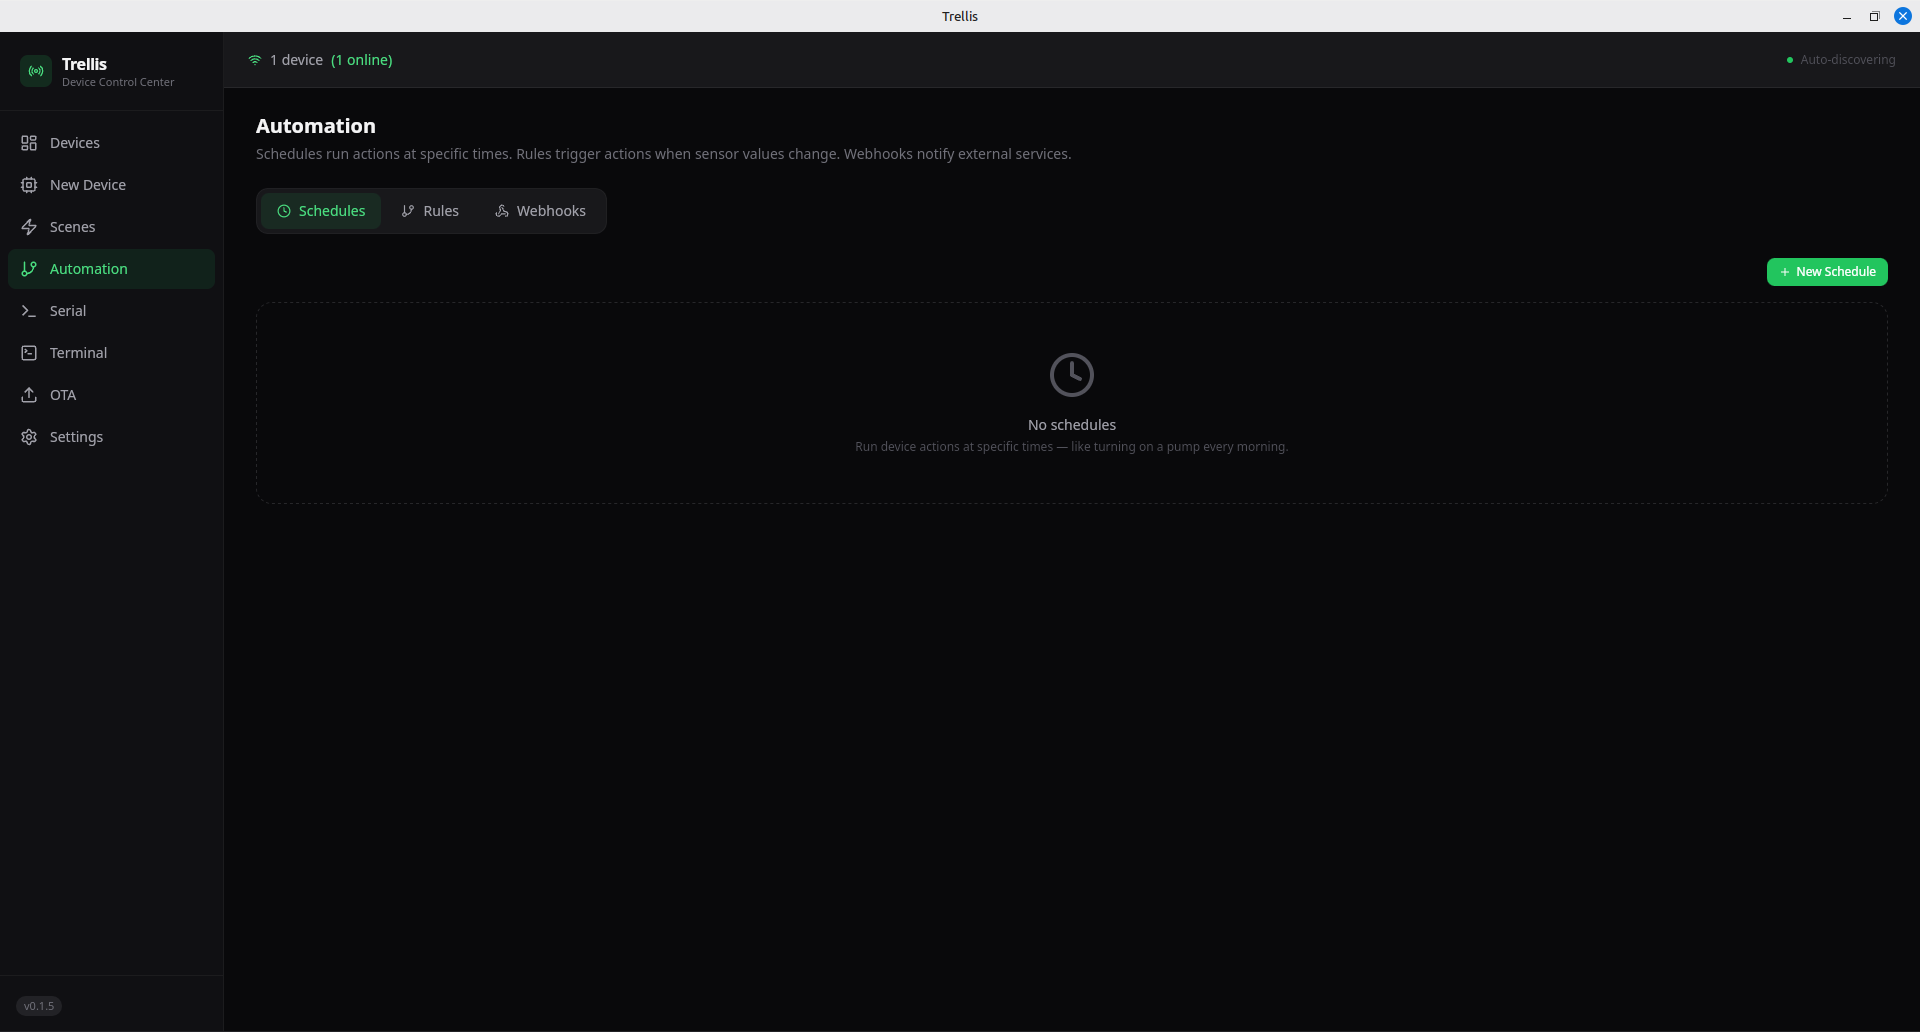
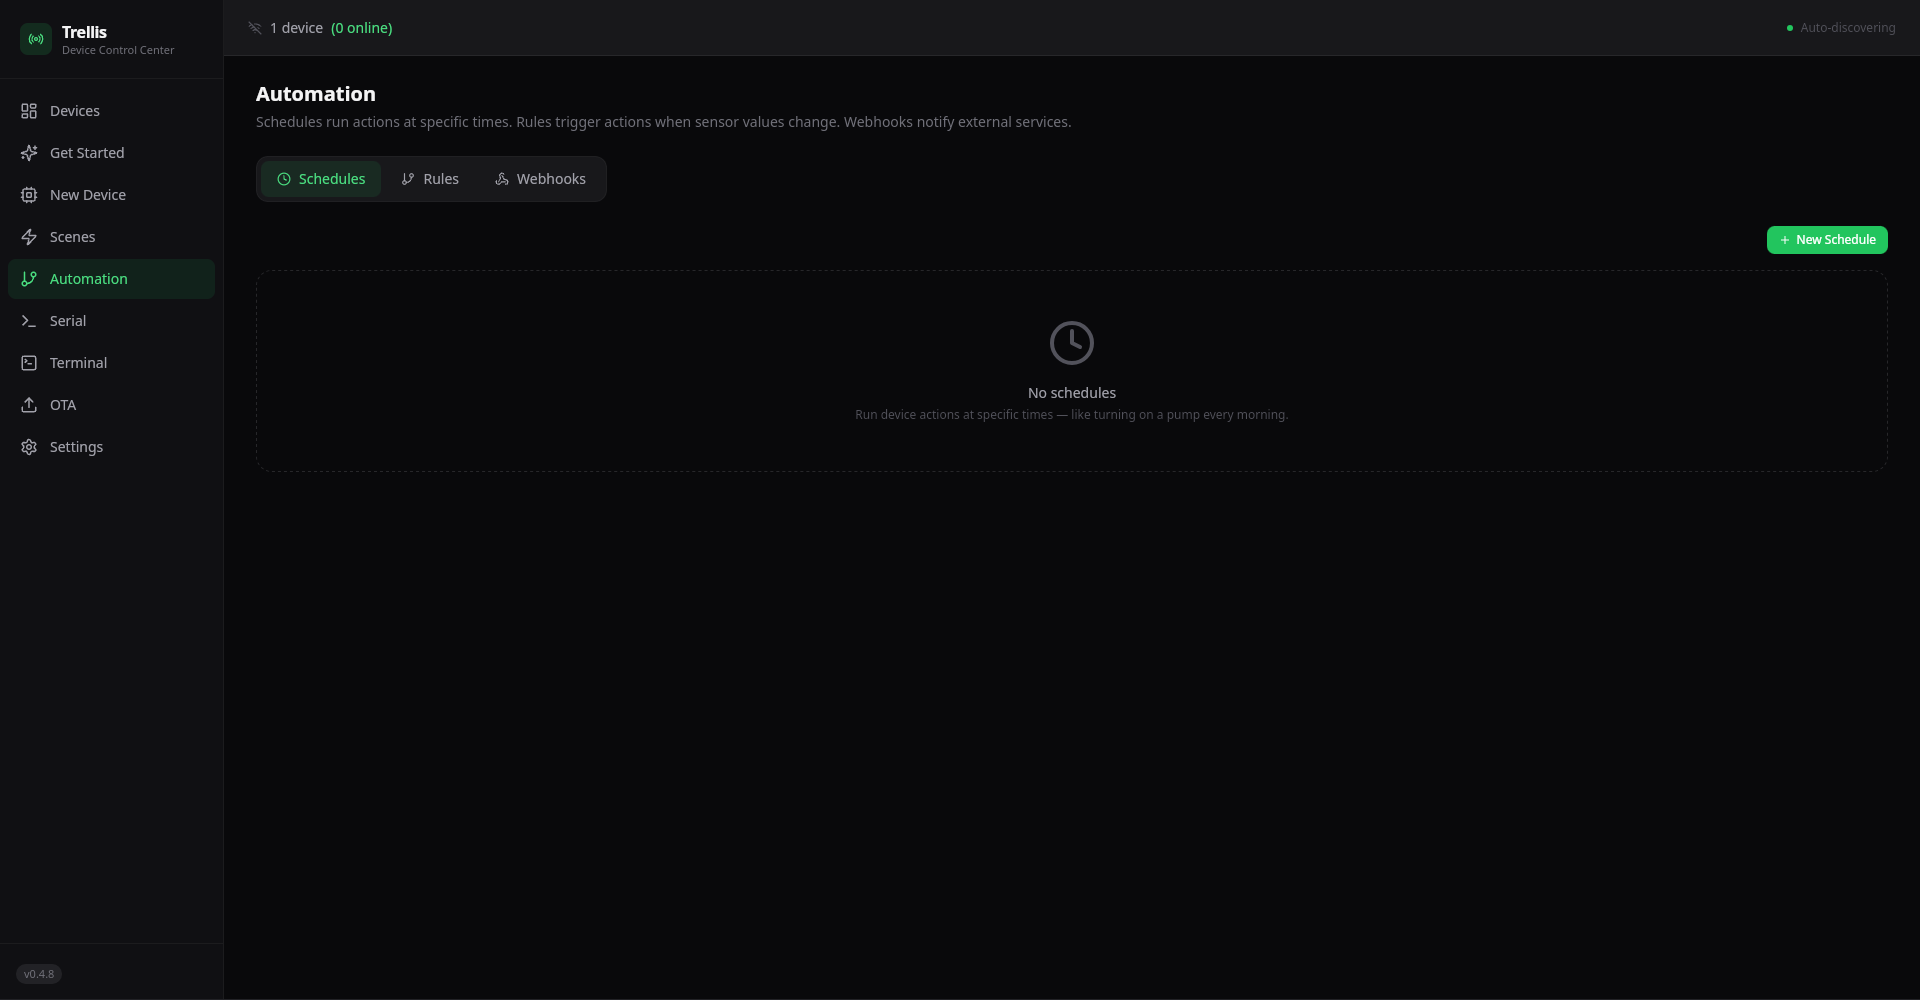
docs: update screenshots and README for v0.4.8
Replace all screenshots (previously from v0.1.5) with fresh v0.4.8
captures showing the current UI. Update Features section to reflect
MQTT bridge, remote access, GitHub OTA, RBAC, NVS persistence,
automation, web dashboard, and other additions since v0.1.x.

Changed region(s): [[0.0, 0.0, 1.0, 0.465], [0.4375, 0.31, 0.6562, 0.434], [0.9062, 0.217, 1.0, 0.279]]

diff --git a/README.md b/README.md
@@ -80,15 +80,22 @@ Download from [GitHub Releases](https://github.com/ovexro/trellis/releases):
 ### Desktop App
 - **Auto-discovery** — continuous mDNS scanning, devices appear automatically
 - **Live updates** — persistent WebSocket connections, real-time sensor data
-- **Device cards** — name, status, RSSI, uptime, firmware version, chip
+- **Device cards** — name, status, RSSI, uptime, firmware version, drag-and-drop reorder
 - **Auto-generated controls** — switches, sliders, sensors, color pickers, text
-- **Time-series charts** — sensor data over time with SQLite storage
+- **Interactive charts** — time-series sensor data with range picker, hover tooltips, event annotations (OTA/online/offline markers), click-through to logs
+- **Uptime timeline** — visual ribbon showing online/offline history with stats
+- **Severity-filtered logs** — chip row (All/Events/State/Error/Warn/Info/Debug)
 - **Serial monitor** — full USB serial terminal with live streaming
-- **OTA updates** — native file picker, local HTTP firmware server
+- **OTA updates** — local file upload or pull firmware from any GitHub Release (.bin/.bin.gz)
+- **Onboarding wizard** — 4-step guided setup with 5 starter templates and Quick Flash
+- **MQTT bridge** — mirror devices to any MQTT broker with Home Assistant auto-discovery
+- **Remote access** — reach devices from anywhere via Cloudflare Tunnel or Tailscale Funnel
+- **API tokens + RBAC** — Bearer token auth, admin/viewer roles, rate limiting, token TTL
 - **Device persistence** — nicknames, tags, known devices survive restarts
-- **Search & filter** — find devices by name, IP, platform, chip
-- **Device logs** — severity-filtered log viewer with live streaming
-- **Alert rules** — configurable thresholds with desktop notifications
+- **Search & filter** — find devices by name, IP, platform, chip, tags
+- **Automation** — scheduled actions (cron), conditional rules, webhooks
+- **Push notifications** — ntfy.sh integration, per-device filtering
+- **Web dashboard** — responsive UI at `:9090` with WebSocket push, works on phones
 - **System tray** — app runs in background, click to restore
 - **Dark theme** — clean, modern UI with green accent
 
@@ -99,6 +106,8 @@ Download from [GitHub Releases](https://github.com/ovexro/trellis/releases):
 - **Self-description protocol** — device declares its own capabilities
 - **WebSocket** — real-time bidirectional communication
 - **Embedded web dashboard** — open `http://<device-ip>/` from any phone or laptop browser. Auto-renders all your switches, sliders, sensors, color picker and text fields with live WebSocket updates. No desktop app required, no install.
+- **NVS persistence** — switch and slider values survive reboots on ESP32
+- **WiFi provisioning** — captive portal AP mode with stored credentials
 - **Live broadcasts** — periodic sensor values + system telemetry
 - **Device logging** — logInfo()/logWarn()/logError() sent to desktop app
 - **OTA ready** — firmware updates from the desktop app (ESP32)
@@ -137,7 +146,7 @@ The repo is a monorepo: the root doubles as the Arduino library (so Library Mana
 | ESP32 (all variants) | Supported |
 | Raspberry Pi Pico W | Supported |
 | Raspberry Pi Pico 2 W | Supported |
-| ESP8266 | Planned |
+| ESP8266 | Not yet supported |
 
 ## Tech Stack
 
